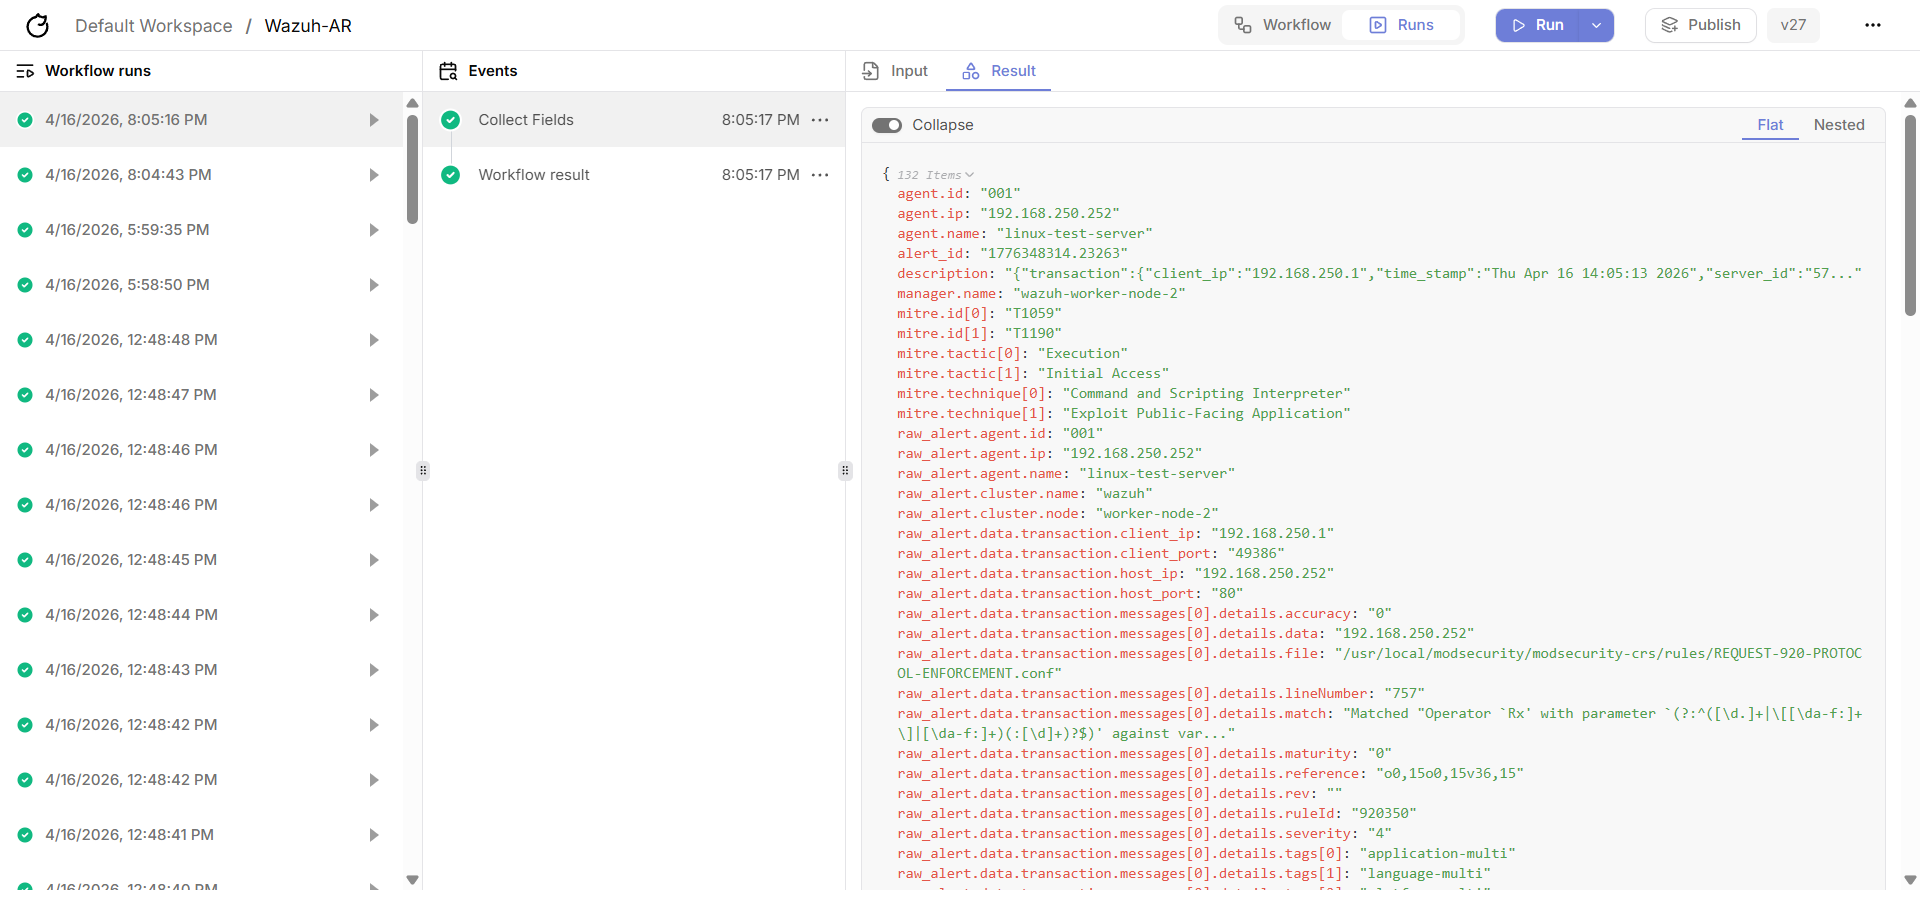
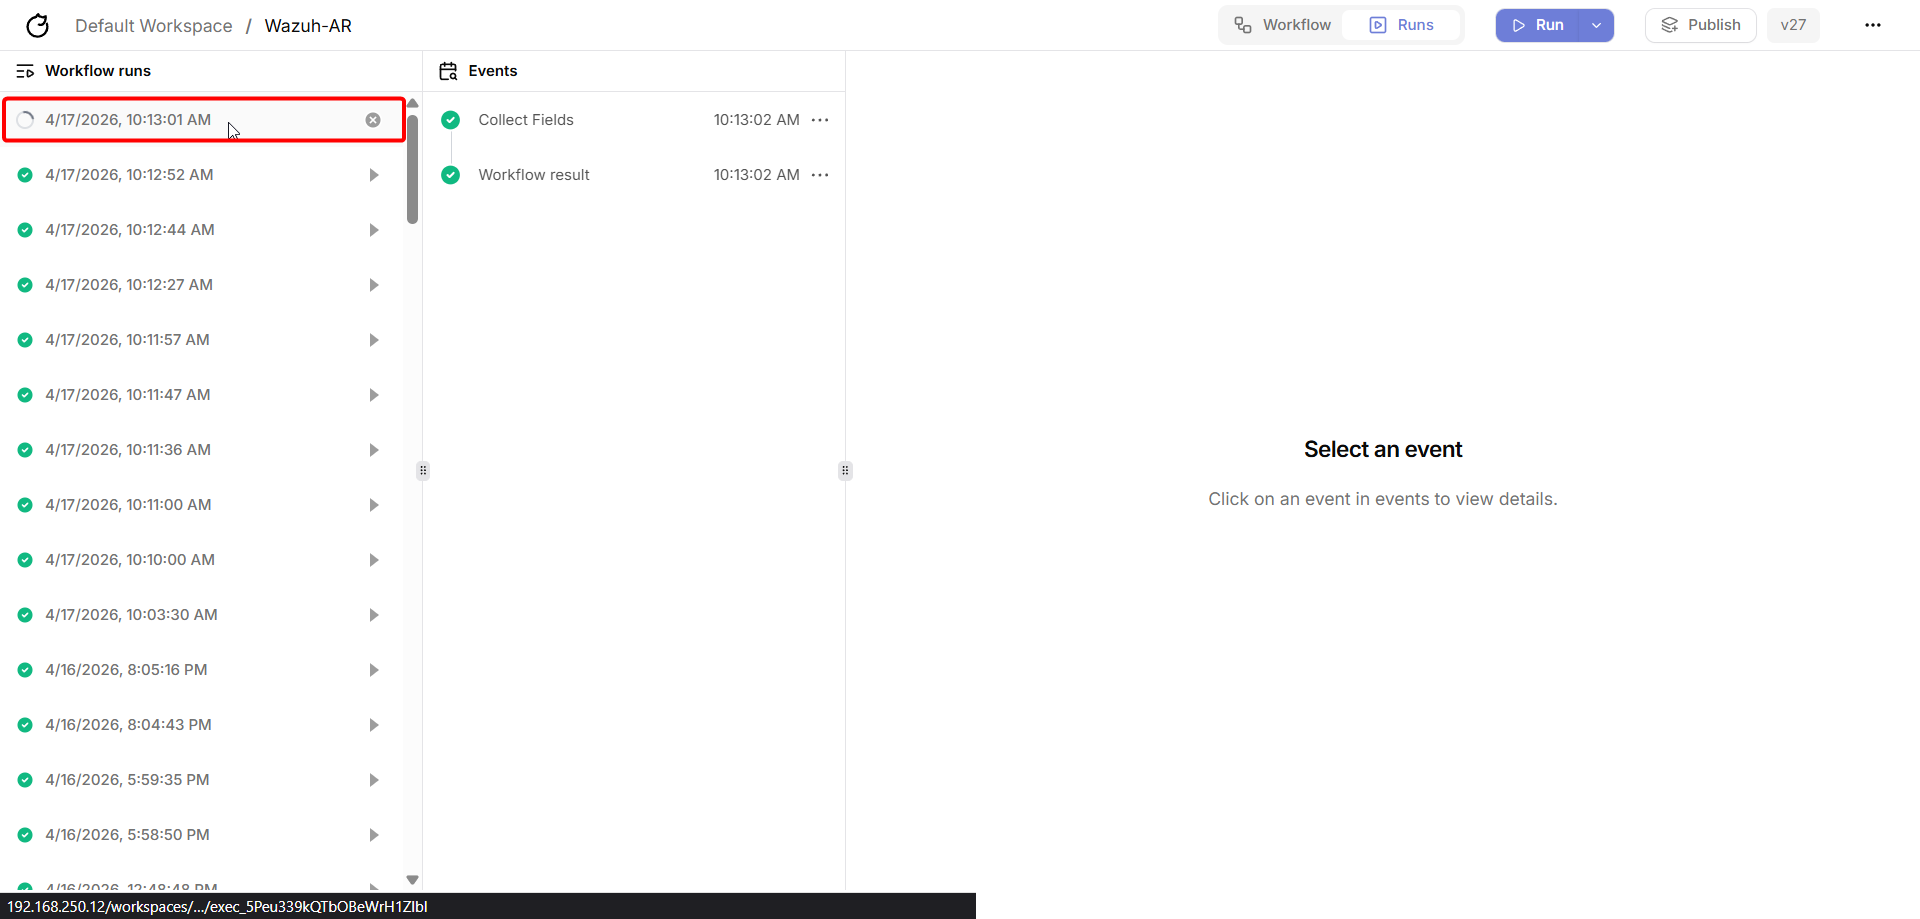
updated - wazuh-server.rst & tracecat-server-components.rst along with images.
added - usecases

diff --git a/source/projects/wazuh-tracecat-integration/tracecat-server-components.rst b/source/projects/wazuh-tracecat-integration/tracecat-server-components.rst
@@ -28,9 +28,97 @@ Follow the image below for a high level view of how the Reshape component is con
 
 All you need to do is, in the **Inputs** section, set the value to ``${{ TRIGGER }}``. 
 This will allow the Reshape component to recive the json field from the wazuh alerts.
-You will be able to see all the field in the results section. Like the image below,
+
+Testing the Integration
+-----------------------
+
+To test the integration, copy and paste this dummy alert and save it as test-alert.json into the Wazuh manager to 
+see if it triggers the Tracecat workflow as expected, you can use the following command to create the test alert:
+
+.. code-block:: bash
+
+    cat > /opt/test-alert.json << 'EOF'
+    {
+        "id": "1234567890",
+        "timestamp": "2026-04-14T10:00:00.000+0000",
+        "rule": {
+            "id": "5503",
+            "level": 7,
+            "description": "User login failed",
+            "groups": ["authentication_failed", "pam"],
+            "mitre": {
+            "id": ["T1110"],
+            "tactic": ["Credential Access"],
+            "technique": ["Brute Force"]
+            }
+        },
+        "agent": {
+            "id": "001",
+            "name": "web-server-01",
+            "ip": "192.168.1.50"
+        },
+        "manager": {
+            "name": "wazuh-manager"
+        },
+        "full_log": "Failed password for invalid user admin from 192.168.1.100 port 22 ssh2"
+    }
+    EOF
+
+This command creates a test alert in the Wazuh manager with the specified details.
+
+Now, you can use the following command to run the script manually with the test alert to see if it triggers the Tracecat workflow as expected:
+
+.. code-block:: bash
+    
+    bash /var/ossec/integrations/custom-tracecat \
+        /opt/test.json \
+        "[tracecat-workflow-api-key]" \
+        "[tracecat-webhook-url]" \
+        debug
+
+Make sure to replace ``[tracecat-workflow-api-key]`` with the actual API key of your Tracecat workflow if it requires one, 
+and replace ``[tracecat-webhook-url]`` with the actual webhook URL of your Tracecat workflow.
+
+.. note::
+    
+    If your Tracecat workflow does not require an API key for authentication, you can simply omit the API key parameter when running the script:
+
+    .. code-block:: bash
+        
+        bash /var/ossec/integrations/custom-tracecat \
+            /opt/test.json \
+            "" \
+            "[tracecat-webhook-url]" \
+            debug
+
+This will allow you to test the integration and ensure that the Wazuh server is able to successfully send alerts to 
+Tracecat and trigger the corresponding workflows based on the test alert you created.
+
+If everything is set up correctly, you should see following script output indicating that the alert was sent to Tracecat successfully,
+
+.. code-block:: bash
+    
+    # Tracecat responded [200]: {"message":"Workflow execution started","wf_id":"[WF_ID]","wf_exec_id":"[WF_EXEC_ID]"}
+
+You can also check the Tracecat Workflow run section, where the workflow executions are listed and 
+see if the workflow was triggered and executed successfully based on the test alert you created.
+Refer to the image below to see where the workflow execution will appear in Tracecat,
 
 .. image:: ../../assets/images/projects/wazuh-tracecat-integration/tracecat-server-workflow-contifiguration-2.png
+   :alt: Testing Tracecat Workflow Run
+   :align: center
+
+.. raw:: html
+    
+    <div style="height:25px;"></div>
+
+This where the workflow execution will automatically appear once the alert is sent from Wazuh to Tracecat, 
+and you can click on it to see the details of the execution and the steps that were executed in the workflow.
+You will be able to see all the field in the results tab. 
+
+As for an real alert you will see something with more details and fields based on the actual alert that is sent from Wazuh to Tracecat,
+
+.. image:: ../../assets/images/projects/wazuh-tracecat-integration/tracecat-server-workflow-contifiguration-3.png
     :alt: Tracecat Server, Reshape Component Showing the Incoming Json Data from Wazuh Alerts
     :align: center
 
@@ -39,6 +127,24 @@ You will be able to see all the field in the results section. Like the image bel
     <div style="height:25px;"></div>
 
 This way, you can easily identify the relevant fields and their corresponding json paths that are required to be used in your workflow components.
+
+Checking the Integration Logs
+-----------------------------
+
+The script is also designed to log its activities, which can be helpful for troubleshooting and ensuring that the integration is working as expected.
+You can check the logs for the integration script in the ``/var/ossec/logs/`` directory, specifically in the ``tracecat.log`` file.
+
+You can use the following command to view the logs:
+
+.. code-block:: bash
+    
+    tail -f /var/ossec/logs/tracecat.log
+
+This command will display the latest entries in the ``tracecat.log`` file in real-time, allowing you to monitor the integration's activities and identify any potential issues.
+
+With the Wazuh server configured to execute the integration script, 
+you can now proceed to the prerequisite steps for setting up the Tracecat server and 
+ensuring that it can receive the alerts from Wazuh and trigger the corresponding workflows.
 
 Component - core.http_request
 -----------------------------
@@ -68,7 +174,7 @@ automatically filled based on the YAML configuration, but you can always edit th
 
 Follow the image below for a high level view of how the Http Request component is configured in the workflow,
 
-.. image:: ../../assets/images/projects/wazuh-tracecat-integration/tracecat-server-workflow-contifiguration-3.png
+.. image:: ../../assets/images/projects/wazuh-tracecat-integration/tracecat-server-workflow-contifiguration-4.png
     :alt: Tracecat Server, Configuration of Http Request Component in the Workflow
     :align: center
 
@@ -93,7 +199,7 @@ replace it in the expression syntax like this: ``${{ rule.id }}``
 
 Follow the image below for a high level view of how to use expressions to access the fields from the incoming json data from Wazuh alerts,
 
-.. image:: ../../assets/images/projects/wazuh-tracecat-integration/tracecat-server-workflow-contifiguration-4.png
+.. image:: ../../assets/images/projects/wazuh-tracecat-integration/tracecat-server-workflow-contifiguration-5.png
     :alt: Tracecat Server, Using Expressions to Access the Fields from the Incoming Json Data from Wazuh Alerts
     :align: center
 

diff --git a/source/projects/wazuh-tracecat-integration/wazuh-server.rst b/source/projects/wazuh-tracecat-integration/wazuh-server.rst
@@ -71,21 +71,3 @@ After adding this configuration, save the file and restart the Wazuh manager to 
 
 This will ensure that the Wazuh server is now configured to execute the ``custom-tracecat`` integration script whenever an alert with 
 the specified level or higher is generated, allowing you to automate your incident response workflows using Tracecat.
-
-Checking the Integration Logs
-~~~~~~~~~~~~~~~~~~~~~~~~~~~~~
-
-The script is also designed to log its activities, which can be helpful for troubleshooting and ensuring that the integration is working as expected.
-You can check the logs for the integration script in the ``/var/ossec/logs/`` directory, specifically in the ``tracecat.log`` file.
-
-You can use the following command to view the logs:
-
-.. code-block:: bash
-    
-    tail -f /var/ossec/logs/tracecat.log
-
-This command will display the latest entries in the ``tracecat.log`` file in real-time, allowing you to monitor the integration's activities and identify any potential issues.
-
-With the Wazuh server configured to execute the integration script, 
-you can now proceed to the prerequisite steps for setting up the Tracecat server and 
-ensuring that it can receive the alerts from Wazuh and trigger the corresponding workflows.

diff --git a/source/projects/wazuh-tracecat-integration/use-case-1-wazuh-ar.rst b/source/projects/wazuh-tracecat-integration/use-case-1-wazuh-ar.rst
@@ -1,0 +1,14 @@
+Leverageing Wazuh's Active Response with Tracecat Server to Automate Incident Response Playbooks
+================================================================================================
+
+In this use case, we will explore how to leverage Wazuh's Active Response 
+capabilities in conjunction with Tracecat Server to automate incident response playbooks.
+
+Workflow Overview:
+------------------
+
+Refer to the image below for a high-level overview of the workflow that we will be implementing in this use case.
+
+.. image:: ../../assets/images/projects/wazuh-tracecat-integration/use-case-1-overview.png
+    :alt: Use Case 1 Overview, Leveraging Wazuh's Active Response with Tracecat Server to Automate Incident Response Playbooks
+    :align: center

diff --git a/source/projects/wazuh-tracecat-integration/use-cases.rst b/source/projects/wazuh-tracecat-integration/use-cases.rst
@@ -1,0 +1,17 @@
+Use Cases
+=========
+
+In this section, we will explore some of the use cases that can be implemented using the integration between Wazuh and Tracecat Server. 
+These use cases will demonstrate how to leverage the capabilities of both systems to explore more about your security operations and incident response processes.
+
+- **Use Case - 1:** Lerveraging Wazuh Active Response with Tracecat Server to Automate Incident Response Playbooks.
+
+.. note::
+
+    More use cases will be added in the future as we continue to explore the integration and its capabilities.
+
+.. toctree::
+   :maxdepth: 3
+   :hidden:
+
+   ../../projects/wazuh-tracecat-integration/use-case-1-wazuh-ar
